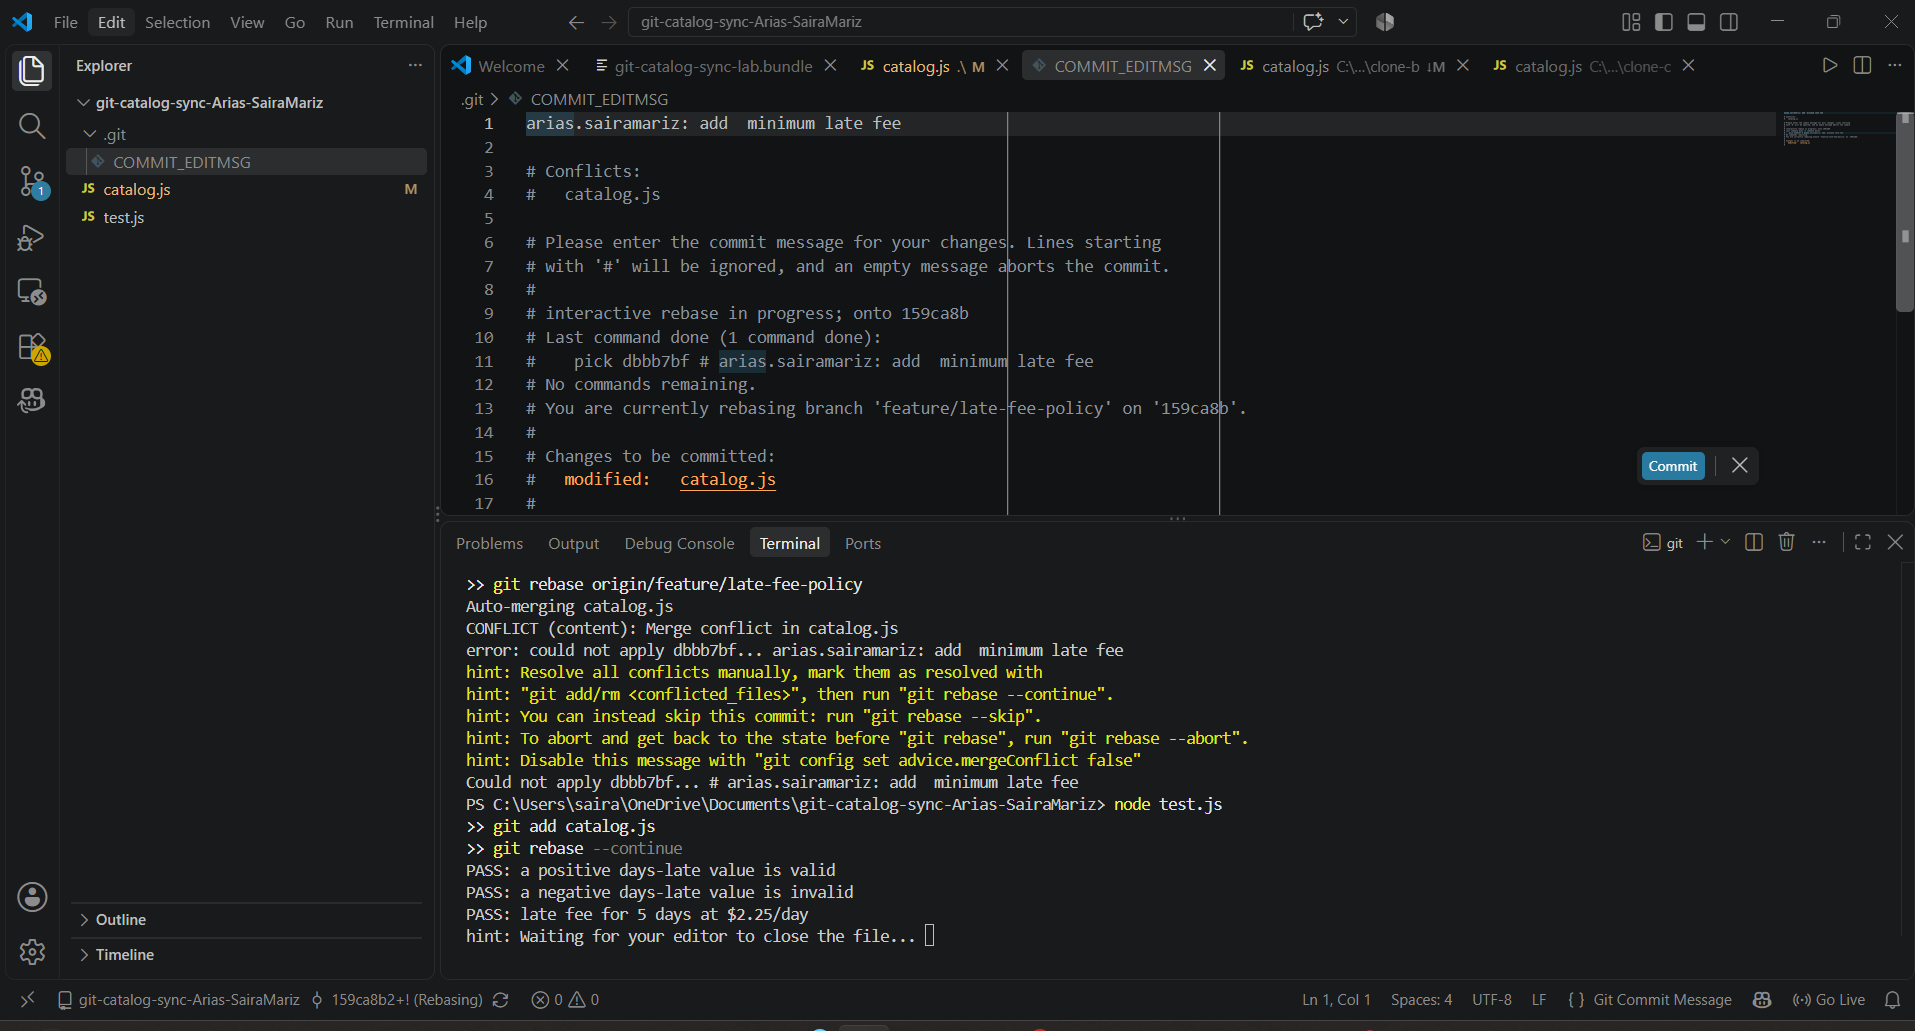
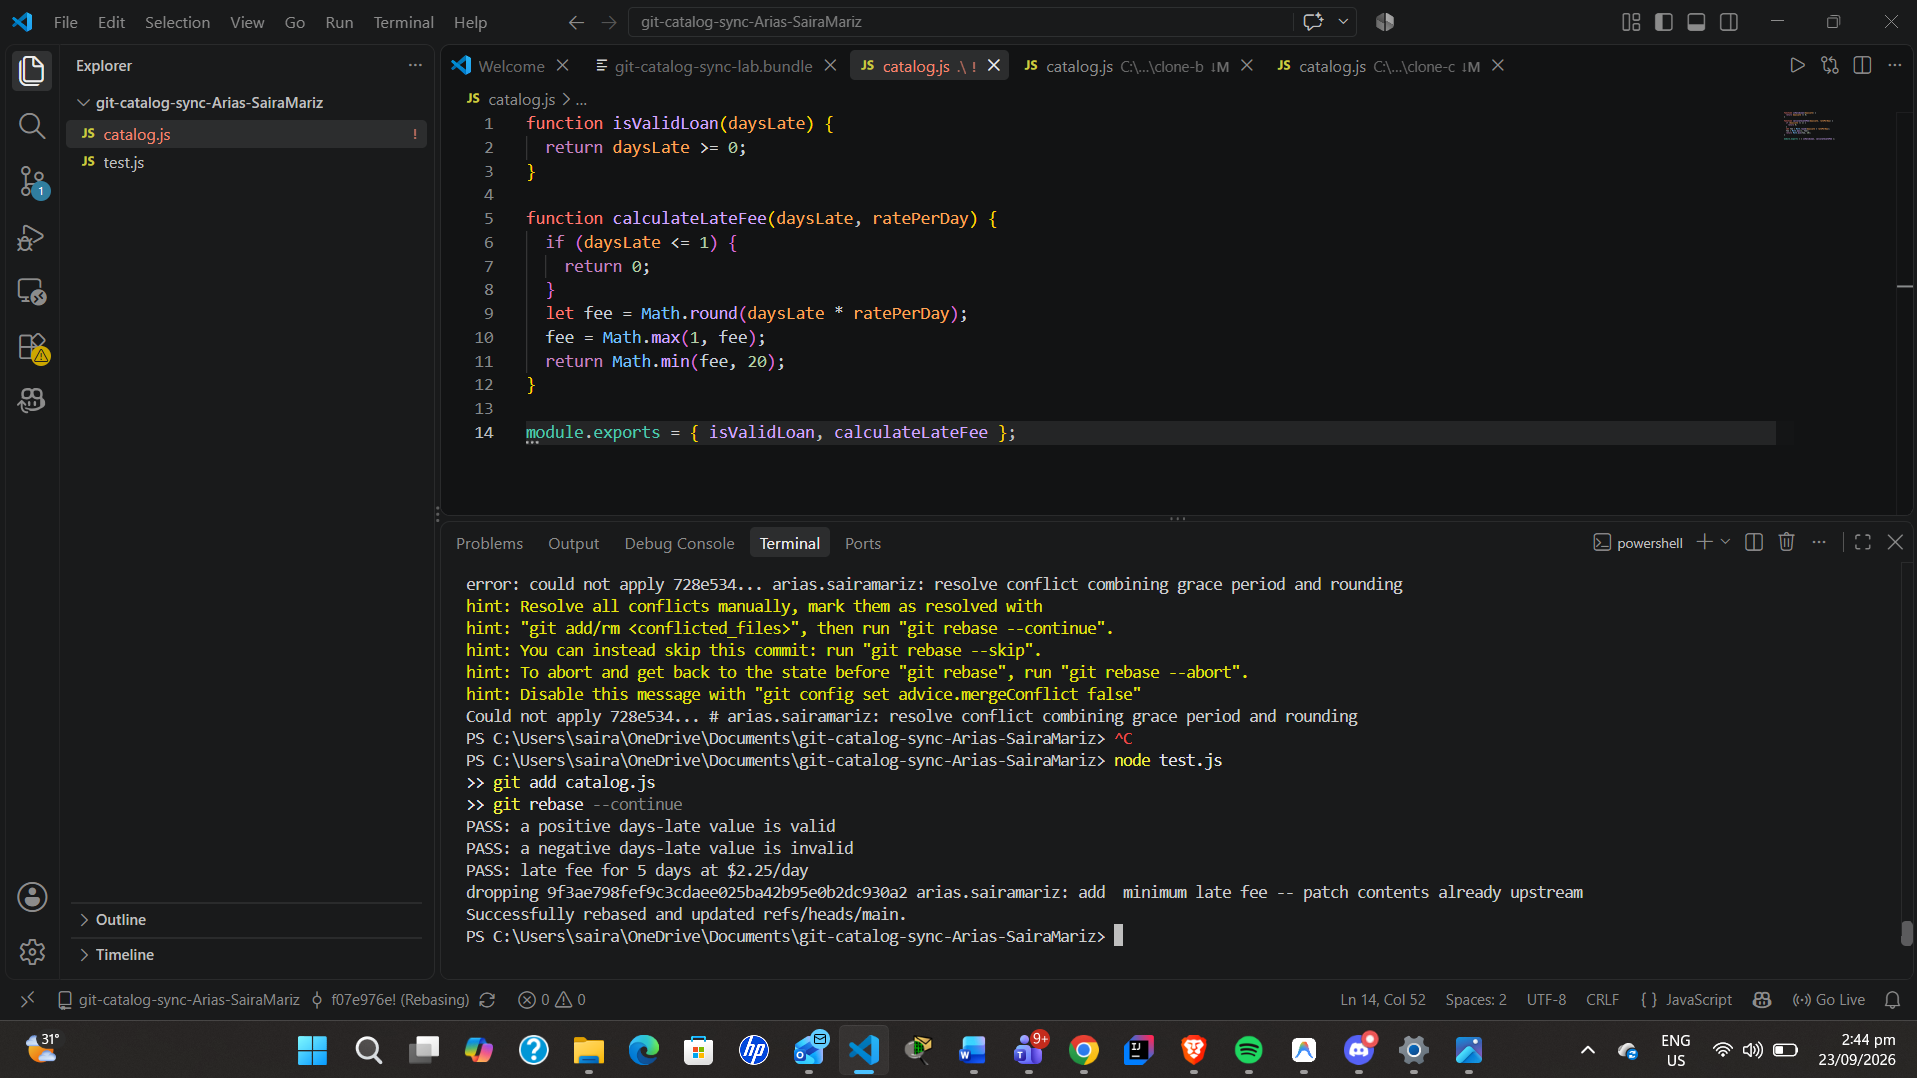
arias.sairamariz: complete workflow documentation and screenshot evidence

diff --git a/WORKFLOW.md b/WORKFLOW.md
@@ -13,16 +13,16 @@ function calculateLateFee(daysLate, ratePerDay) {
 }
 ```
 
-* **1-Day Grace Period (`if (daysLate <= 1) return 0;`)**: Implemented by **Clone A** in Task 1 to waive fees for items returned within a 1-day grace window.
-* **Rounding Logic (`Math.round(...)`)**: Implemented by **Clone B** in Task 2 to replace truncation with standard nearest-integer rounding.
-* **$1 Minimum Fee (`fee = Math.max(1, fee);`)**: Implemented by **Clone A** in Task 6 to ensure that any overdue return past the grace period incurs at least a baseline $1 charge.
-* **$20 Fee Cap (`return Math.min(fee, 20);`)**: Implemented by **Clone C** in Task 4 to restrict the total late fee from exceeding a $20 ceiling.
+* **1-Day Grace Period (`if (daysLate <= 1) return 0;`)**: Implemented by **Clone A** in Task 1 to waive fees for returns within one day.
+* **Rounding Logic (`Math.round(...)`)**: Implemented by **Clone B** in Task 2 to replace truncation with nearest-integer rounding.
+* **$1 Minimum Fee (`fee = Math.max(1, fee);`)**: Implemented by **Clone A** in Task 6 to ensure any late return past the grace period incurs at least a baseline $1 charge.
+* **$20 Fee Cap (`return Math.min(fee, 20);`)**: Implemented by **Clone C** in Task 4 to restrict the maximum late fee from exceeding $20.
 
 ---
 
 ## 2. Two-Way vs. Three-Way Conflict Comparison
 
-Task 3 involved a two-way conflict between two parallel branches originating from the exact same base commit (Clone A's grace period vs. Clone B's rounding). In Task 5, Clone C faced a three-way conflict where the remote branch had already undergone a prior merge combining two independent changes, while Clone C introduced a third feature ($20 cap). This was more complex because Clone C had to resolve multiple layers of upstream history at once, ensuring the correct logical sequence of all three business rules without discarding earlier resolutions.
+Task 3 involved a two-way conflict between two branches originating from the exact same base commit (Clone A's grace period vs. Clone B's rounding). In Task 5, Clone C faced a three-way conflict where the remote branch had already undergone a prior merge combining two independent changes, while Clone C introduced a third feature ($20 cap). This was harder because Clone C had to resolve multiple layers of upstream history at once, ensuring the correct logical sequence of all three business rules without discarding earlier resolutions.
 
 ---
 
